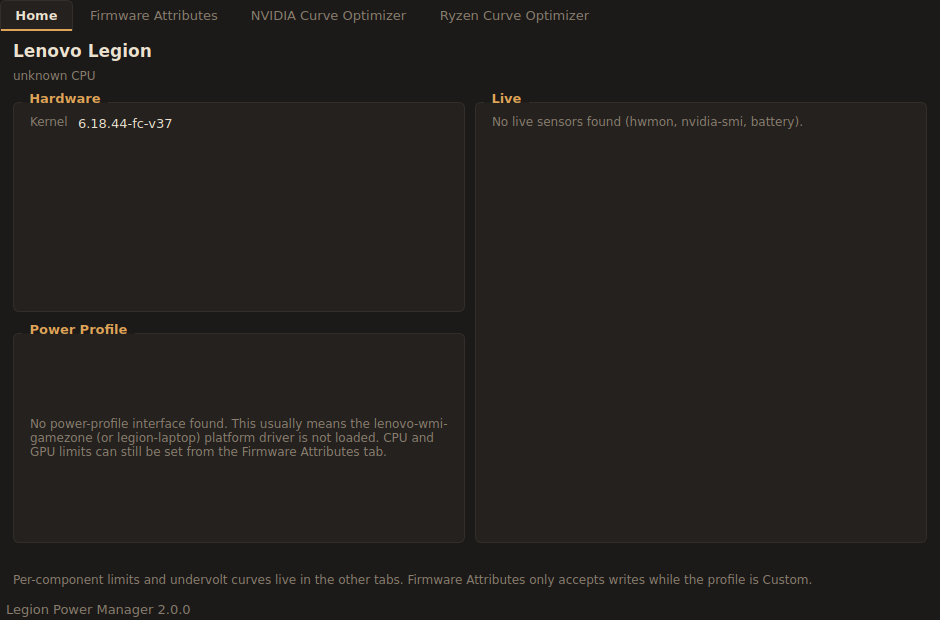
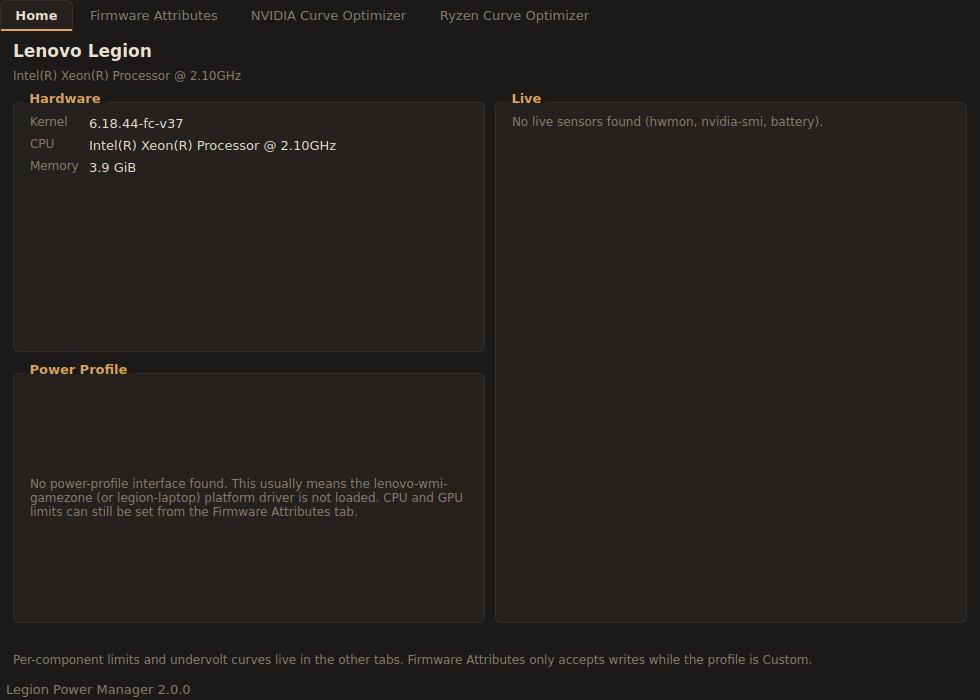
Cpu detection fix

diff --git a/gui/src/sysinfo.cpp b/gui/src/sysinfo.cpp
@@ -4,6 +4,7 @@
 #include <QFile>
 #include <QRegularExpression>
 #include <QSet>
+#include <fstream>
 #include <sys/utsname.h>
 
 namespace sysinfo {
@@ -27,15 +28,20 @@ Opt dmiClean(const QString &f) {
     return v->trimmed();
 }
 
+/// First line starting with `prefix` (case-insensitive). `field < 0` → the part
+/// after ':', otherwise the whitespace-separated field index.
+///
+/// Read with std::ifstream, not QFile: procfs files report size 0, and
+/// QFile::atEnd() trusts the size, so a `while (!f.atEnd())` loop never ran
+/// and /proc/cpuinfo looked empty ("unknown CPU", no Memory row).
 static Opt grepFile(const QString &path, const QString &prefix, int field) {
-    QFile f(path);
-    if (!f.open(QIODevice::ReadOnly)) return std::nullopt;
-    while (!f.atEnd()) {
-        const QString line = QString::fromUtf8(f.readLine());
-        if (line.startsWith(prefix, Qt::CaseInsensitive)) {
-            if (field < 0) return line.section(':', 1).trimmed();
-            return line.simplified().section(' ', field, field);
-        }
+    std::ifstream in(path.toStdString());
+    std::string raw;
+    while (std::getline(in, raw)) {
+        const QString line = QString::fromStdString(raw);
+        if (!line.startsWith(prefix, Qt::CaseInsensitive)) continue;
+        if (field < 0) return line.section(':', 1).trimmed();
+        return line.simplified().section(' ', field, field);
     }
     return std::nullopt;
 }
